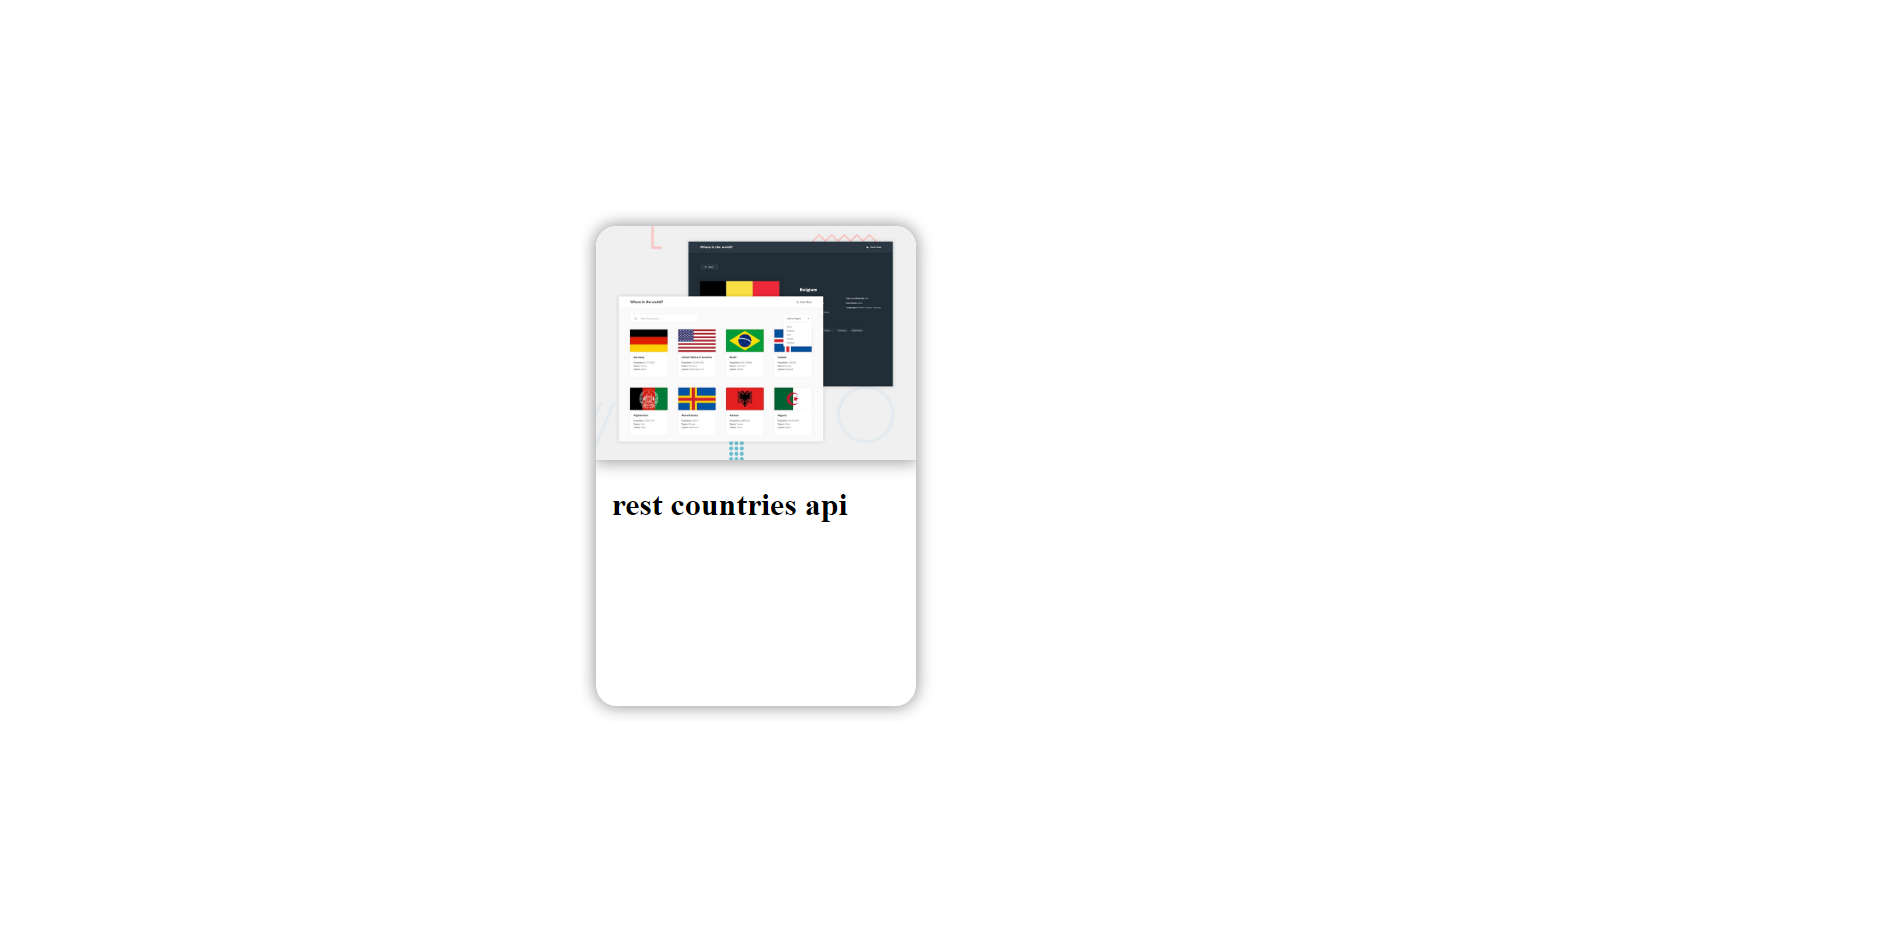
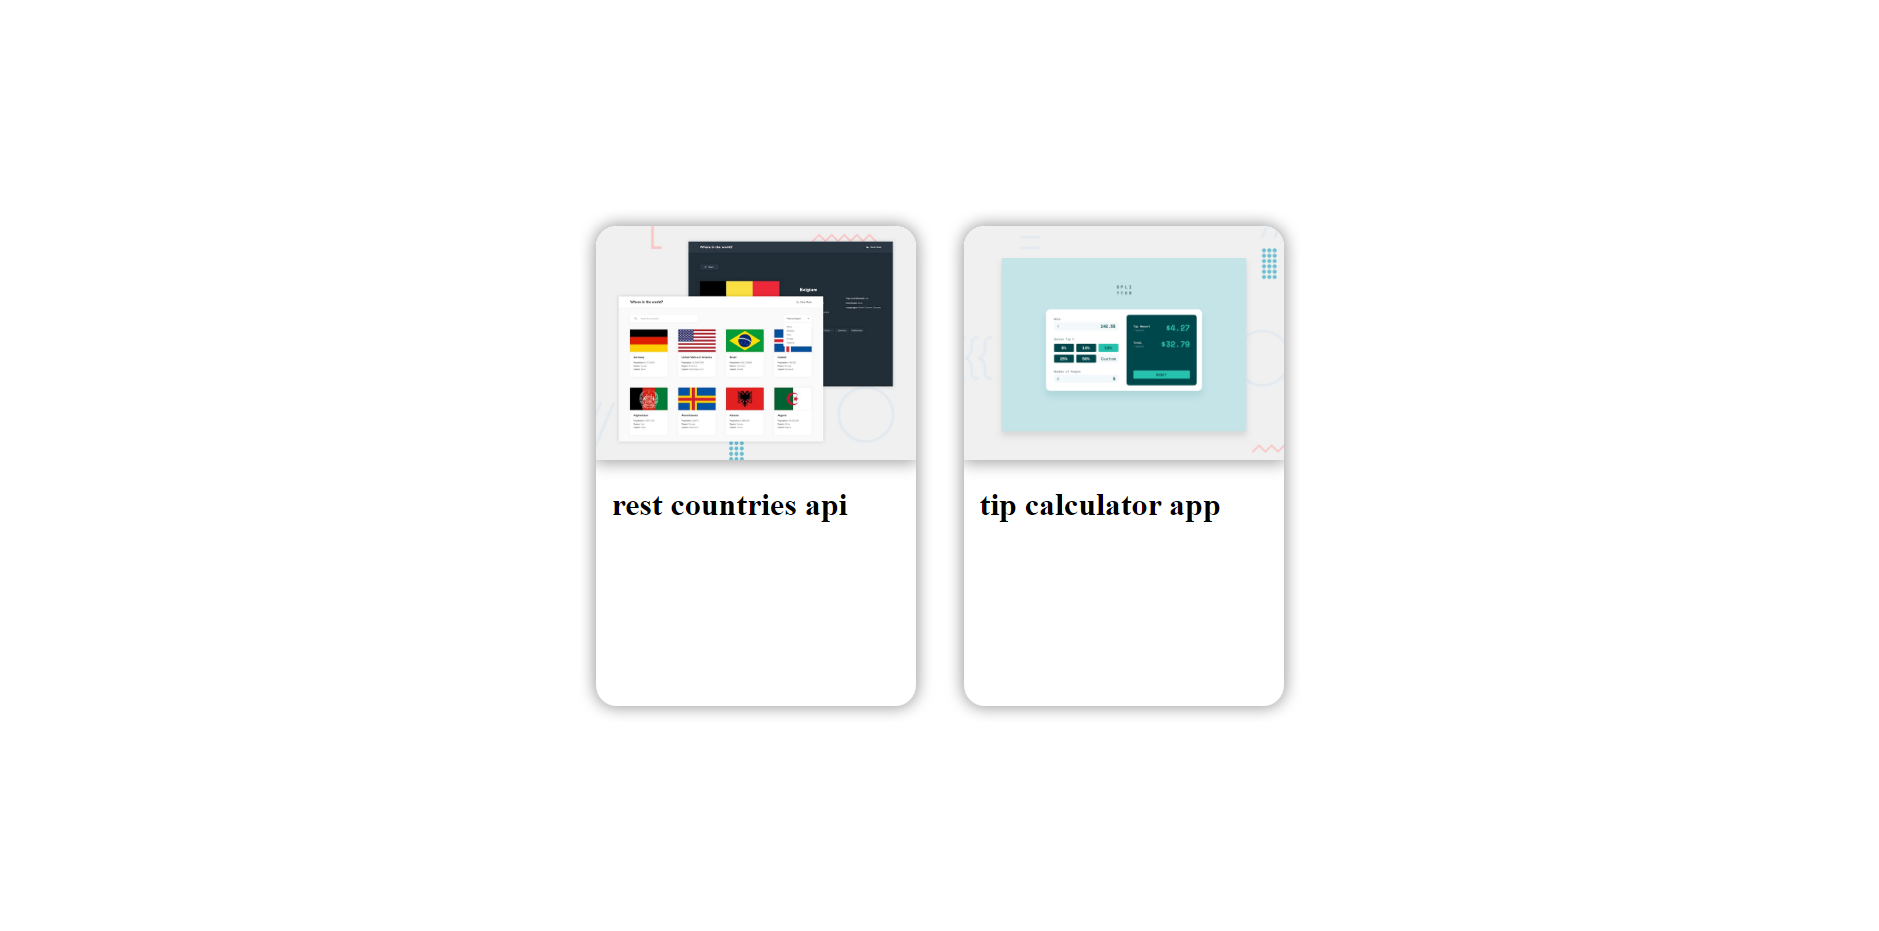
update

Changed region(s): [[0.4939, 0.218, 0.71, 0.7476], [0.5247, 0.7476, 0.6791, 0.7787]]

diff --git a/react/index.html b/react/index.html
@@ -14,10 +14,20 @@
                 <a href="https://matix221.github.io/rest-countries-api/">
                     <div class="card">
                         <div class="image">
-                            <img src=".\images\desktop-preview.jpg" alt="rest-countries-api" />
+                            <img src="./images/rest-countries-api.jpg" alt="rest countries api" />
                         </div>
                         <div class="details">
                             <h1 class="header">rest countries api</h1>
+                        </div>
+                    </div>
+                </a>
+                <a href="https://matix221.github.io/tip-calculator-app/">
+                    <div class="card">
+                        <div class="image">
+                            <img src="./images/tip-calculator-app.jpg" alt="tip calculator app" />
+                        </div>
+                        <div class="details">
+                            <h1 class="header">tip calculator app</h1>
                         </div>
                     </div>
                 </a>
